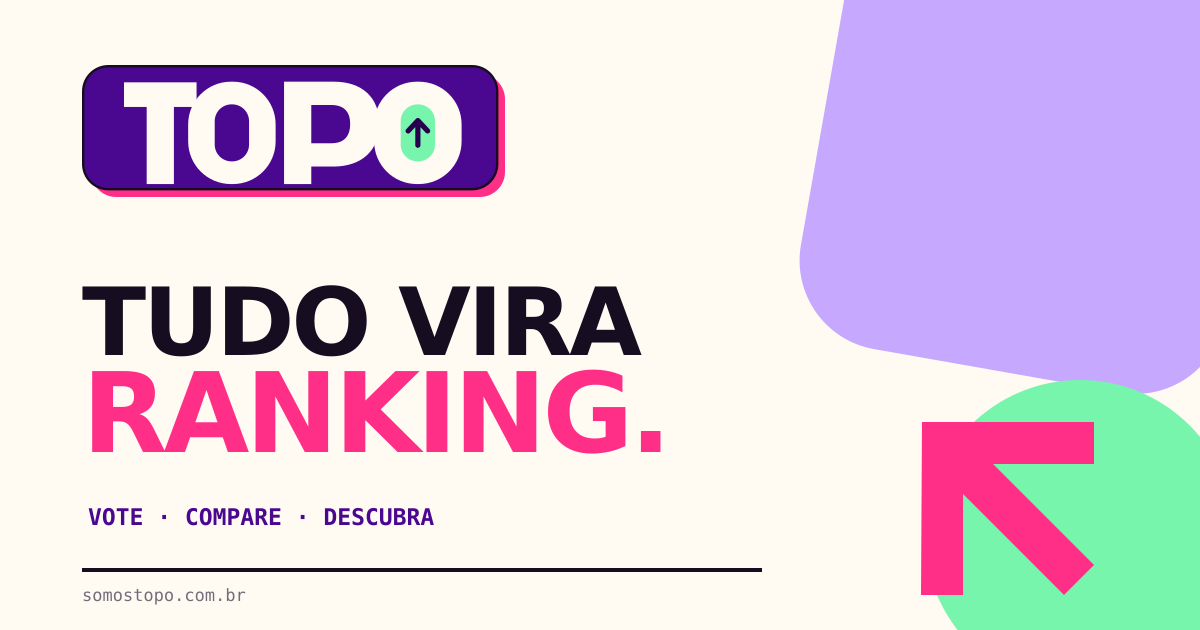
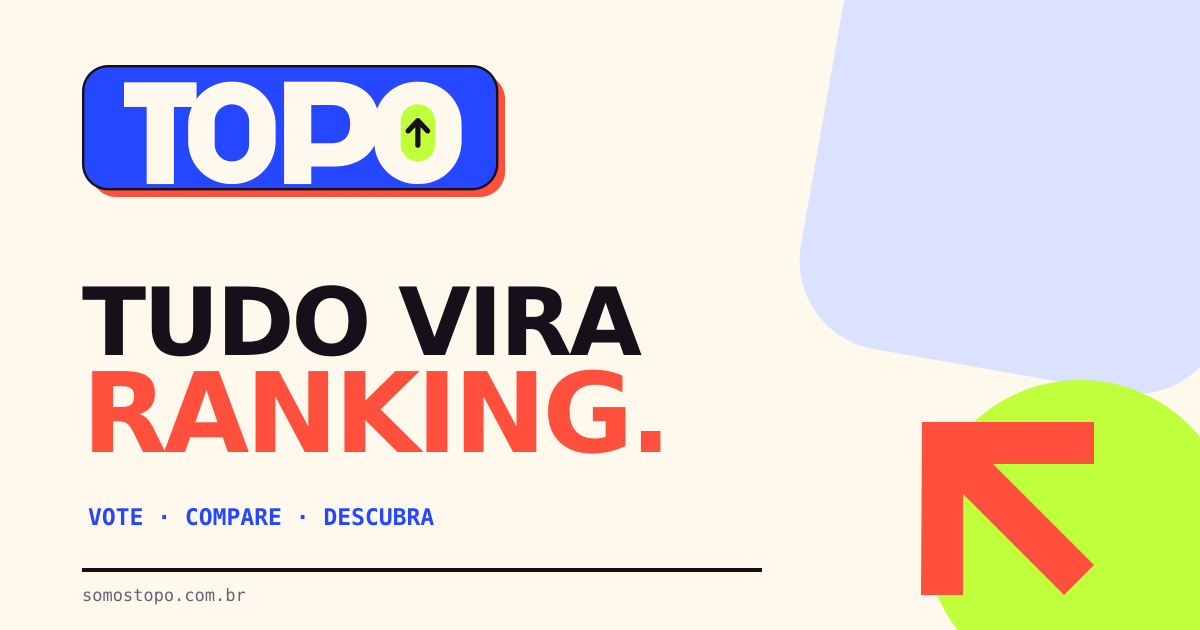
Apply electric blue coral and lime palette

diff --git a/pop-electric.css b/pop-electric.css
@@ -1,20 +1,20 @@
 :root {
-  --cream: #fffaf2;
+  --cream: #fff8ec;
   --paper: #ffffff;
-  --ink: #160d20;
-  --muted: #746c7a;
-  --line: #21152b;
-  --violet: #4a0790;
-  --violet-dark: #26004f;
-  --pink: #ff2f87;
-  --mint: #78f5ad;
-  --lilac: #c6a8ff;
-  --accent: #4a0790;
-  --bg: #fffaf2;
-  --up: #159a50;
-  --upbg: #e6f8ec;
-  --down: #df3445;
-  --downbg: #fff0f1;
+  --ink: #151019;
+  --muted: #68616f;
+  --line: #151019;
+  --violet: #2447ff;
+  --violet-dark: #151019;
+  --pink: #ff4f3d;
+  --mint: #bfff3c;
+  --lilac: #dbe2ff;
+  --accent: #2447ff;
+  --bg: #fff8ec;
+  --up: #3b7a16;
+  --upbg: #efffd8;
+  --down: #b83129;
+  --downbg: #ffe8e4;
 }
 
 html {
@@ -88,7 +88,7 @@ body.legalShell {
 
 /* Header and global navigation */
 .popElectric .top {
-  background: rgba(255, 250, 242, 0.96);
+  background: rgba(255, 248, 236, 0.96);
   border-bottom: 2px solid var(--ink);
   box-shadow: none;
   backdrop-filter: blur(16px);
@@ -193,15 +193,15 @@ body.legalShell {
 }
 
 .popElectric .siteSearch input::placeholder {
-  color: #776c7b;
+  color: #68616f;
 }
 
 .popElectric .siteSearch kbd {
   display: inline-flex;
-  border: 1px solid #d6c8df;
+  border: 1px solid #cbd3ef;
   border-radius: 6px;
-  background: #f1e8f6;
-  color: #6d5c74;
+  background: #eef1ff;
+  color: #5d5864;
   padding: 4px 7px;
   font: 700 11px/1 ui-monospace, monospace;
 }
@@ -222,7 +222,7 @@ body.legalShell {
   border: 2px solid var(--ink);
   border-radius: 10px;
   background: var(--pink);
-  color: #fff;
+  color: var(--ink);
   padding: 9px 17px;
 }
 
@@ -265,6 +265,7 @@ body.legalShell {
   height: 18px;
   border-color: var(--cream);
   background: var(--pink);
+  color: var(--ink);
   font-size: 10px;
 }
 
@@ -297,7 +298,7 @@ body.legalShell {
 }
 
 .popElectric .notificationItem.unread {
-  background: #f5efff;
+  background: #eef1ff;
 }
 
 .popElectric .notificationItem.unread::after {
@@ -315,7 +316,7 @@ body.legalShell {
 }
 
 .popElectric .experienceWrap {
-  border-top: 1px solid rgba(33, 21, 43, 0.2);
+  border-top: 1px solid rgba(21, 16, 25, 0.2);
   background: #fff;
 }
 
@@ -369,7 +370,7 @@ body.legalShell {
 
 .popElectric .groupsWrap,
 .popElectric.homePage .groupsWrap {
-  border-top: 1px solid rgba(33, 21, 43, 0.22);
+  border-top: 1px solid rgba(21, 16, 25, 0.22);
   border-bottom: 0;
   background: var(--cream);
 }
@@ -557,6 +558,7 @@ body.legalShell {
 
 .popElectric .portalTrendingLabel {
   background: var(--pink);
+  color: var(--ink);
   font-size: 12px;
 }
 
@@ -570,8 +572,8 @@ body.legalShell {
 .popElectric .categoryRail {
   grid-template-columns: 170px minmax(0, 1fr);
   border: 0;
-  border-top: 1px solid rgba(33, 21, 43, 0.4);
-  border-bottom: 1px solid rgba(33, 21, 43, 0.4);
+  border-top: 1px solid rgba(21, 16, 25, 0.4);
+  border-bottom: 1px solid rgba(21, 16, 25, 0.4);
   background: transparent;
   padding: 17px 0;
   margin: 28px 0;
@@ -727,7 +729,7 @@ body.legalShell {
   margin: 76px calc(50% - 50vw);
   padding: 45px max(24px, calc((100vw - 1240px) / 2));
   background: var(--violet);
-  color: #fffaf2;
+  color: #fff8ec;
 }
 
 .popLocalCallout .popEyebrow {
@@ -736,13 +738,13 @@ body.legalShell {
 
 .popLocalCallout h2 {
   margin: 5px 0 6px;
-  color: #fffaf2;
+  color: #fff8ec;
   font-size: clamp(48px, 5vw, 72px);
   line-height: 0.9;
 }
 
 .popLocalCallout h2 em {
-  color: var(--pink);
+  color: var(--mint);
   font-style: normal;
 }
 
@@ -755,7 +757,7 @@ body.legalShell {
   display: flex;
   align-items: center;
   gap: 10px;
-  border: 2px solid #fffaf2;
+  border: 2px solid #fff8ec;
   border-radius: 10px;
   padding: 14px 17px;
   font: 800 13px/1 ui-monospace, monospace;
@@ -933,7 +935,7 @@ body.legalShell {
 .popElectric.localMode .categoryLandingHead,
 .popElectric .localCatalogHead {
   background: var(--violet);
-  color: #fffaf2;
+  color: #fff8ec;
   box-shadow: 8px 8px 0 var(--pink);
 }
 
@@ -944,11 +946,11 @@ body.legalShell {
 }
 
 .popElectric.localMode .categoryLandingCount {
-  border-color: #fffaf2;
+  border-color: #fff8ec;
 }
 
 .popElectric.localMode .categoryLandingCount strong {
-  color: var(--pink);
+  color: var(--mint);
 }
 
 .popElectric .categoryListBar {
@@ -968,7 +970,7 @@ body.legalShell {
 .popElectric .categorySorts button.active {
   border-color: var(--ink);
   background: var(--pink);
-  color: #fff;
+  color: var(--ink);
 }
 
 .popElectric .categoryLoadMore button,
@@ -978,7 +980,7 @@ body.legalShell {
   border: 2px solid var(--ink);
   border-radius: 9px;
   background: var(--pink);
-  color: #fff;
+  color: var(--ink);
   padding: 12px 17px;
   font-size: 12px;
   font-weight: 900;
@@ -1107,7 +1109,7 @@ body.legalShell {
 
 .popElectric .option {
   min-height: 74px;
-  border-bottom: 1px solid rgba(33, 21, 43, 0.25);
+  border-bottom: 1px solid rgba(21, 16, 25, 0.25);
   padding: 12px 0;
 }
 
@@ -1163,7 +1165,7 @@ body.legalShell {
 
 .popElectric .doubleVoteAction.active {
   background: var(--pink);
-  color: #fff;
+  color: var(--ink);
 }
 
 .popElectric .allItemsExplorer {
@@ -1234,11 +1236,11 @@ body.legalShell {
   border: 2px solid var(--ink);
   border-radius: 20px;
   background: var(--violet);
-  color: #fffaf2;
+  color: #fff8ec;
 }
 
 .popElectric .rankingContinuationHead h2 {
-  color: #fffaf2;
+  color: #fff8ec;
 }
 
 .popElectric .rankingFlowButton {
@@ -1248,7 +1250,7 @@ body.legalShell {
 
 .popElectric .rankingFlowButton.primary {
   background: var(--pink);
-  color: #fff;
+  color: var(--ink);
 }
 
 /* Comments and suggestions */
@@ -1288,7 +1290,7 @@ body.legalShell {
   border: 2px solid var(--ink);
   border-radius: 9px;
   background: var(--pink);
-  color: #fff;
+  color: var(--ink);
   font-size: 12px;
 }
 
@@ -1332,6 +1334,7 @@ body.legalShell {
   border: 2px solid var(--ink);
   border-radius: 9px;
   background: var(--pink);
+  color: var(--ink);
   font-size: 13px;
 }
 
@@ -1346,13 +1349,13 @@ body.legalShell {
   border: 2px solid var(--ink);
   border-radius: 22px;
   background: var(--violet);
-  color: #fffaf2;
+  color: #fff8ec;
   box-shadow: 9px 9px 0 var(--pink);
 }
 
 .popElectric .profileHeroCopy .profileName,
 .popElectric .moderationHero h1 {
-  color: #fffaf2;
+  color: #fff8ec;
   font-size: clamp(48px, 6vw, 72px);
 }
 
@@ -1369,7 +1372,7 @@ body.legalShell {
 }
 
 .popElectric .profileProgressText strong {
-  color: #fffaf2;
+  color: #fff8ec;
 }
 
 .popElectric .profileIdentityPanel {
@@ -1405,12 +1408,12 @@ body.legalShell {
   min-height: 76px;
   align-content: center;
   padding: 12px;
-  border: 1px solid rgba(255, 250, 242, 0.55);
+  border: 1px solid rgba(255, 248, 236, 0.55);
 }
 
 .popElectric .profileMetrics strong,
 .popElectric .profileMetrics small {
-  color: #fffaf2;
+  color: #fff8ec;
 }
 
 .popElectric .profileMetrics strong {
@@ -1481,7 +1484,7 @@ body.legalShell {
 .popElectric .profilePhotoActions button:first-of-type,
 .popElectric .moderationActions .approve {
   background: var(--pink);
-  color: #fff;
+  color: var(--ink);
 }
 
 .popElectric .moderationCounts span {
@@ -1489,9 +1492,9 @@ body.legalShell {
   align-items: center;
   justify-content: center;
   gap: 5px;
-  border: 1px solid #fffaf2;
+  border: 1px solid #fff8ec;
   background: rgba(255, 255, 255, 0.09);
-  color: #fffaf2;
+  color: #fff8ec;
 }
 
 .popElectric .moderationCounts strong {
@@ -1511,7 +1514,7 @@ body.legalShell {
 
 /* Modal, toast and footer */
 .popElectric .modalLayer {
-  background: rgba(22, 13, 32, 0.68);
+  background: rgba(21, 16, 25, 0.7);
 }
 
 .popElectric .modalCard {
@@ -1532,6 +1535,7 @@ body.legalShell {
 .popElectric .modalActions .main {
   border-color: var(--ink);
   background: var(--pink);
+  color: var(--ink);
 }
 
 .popElectric .toast {
@@ -1547,7 +1551,7 @@ body.legalShell {
 .legalShell .siteFooter {
   border-top: 3px solid var(--ink);
   background: var(--violet-dark);
-  color: #fffaf2;
+  color: #fff8ec;
 }
 
 .popElectric .siteFooterGrid,
@@ -1580,7 +1584,7 @@ body.legalShell {
 .legalShell .siteFooter a,
 .popElectric .siteFooterBottom,
 .legalShell .siteFooterBottom {
-  color: #fffaf2;
+  color: #fff8ec;
   font-size: 12px;
 }
 

diff --git a/index.html b/index.html
@@ -23,10 +23,10 @@
 <meta name="twitter:description" content="Vote, compare e descubra os rankings que estão movimentando o TOPO.">
 <meta name="twitter:image" content="https://somostopo.com.br/og-topo.png">
 <!-- SEO_END -->
-<meta name="theme-color" content="#4a0790">
+<meta name="theme-color" content="#2447ff">
 <link rel="icon" href="/topo-mark.svg" type="image/svg+xml">
 <link rel="stylesheet" href="/style.css?v=20260824-8">
-<link rel="stylesheet" href="/pop-electric.css?v=20260824-9">
+<link rel="stylesheet" href="/pop-electric.css?v=20260825-10">
 </head>
 <body class="popElectric">
 <div class="top"><div class="wrap"><header><div class="brandBlock"><a class="logo" href="/" aria-label="TOPO — ir para a home"><img src="/logo-topo.svg" alt="TOPO" width="184" height="60"></a><span class="brandSlogan" aria-label="Tudo vira ranking."><span>Tudo</span><span>vira</span><span>ranking.</span></span><div class="sitePulse" id="sitePulse" aria-label="Números da comunidade"></div></div><form class="siteSearch" id="siteSearchForm" action="/" method="get" role="search"><button class="siteSearchSubmit" type="submit" aria-label="Buscar"><svg aria-hidden="true" viewBox="0 0 24 24"><circle cx="11" cy="11" r="6.5"></circle><path d="m16 16 4 4"></path></svg></button><input id="rankingSearch" name="busca" type="search" autocomplete="off" placeholder="Buscar rankings" aria-label="Buscar rankings"><kbd aria-hidden="true">⌘ K</kbd></form><div class="account" id="account"><span class="now">vote · veja · continue</span></div></header></div><div class="experienceWrap"><div class="wrap experienceInner"><nav class="experienceSwitch" aria-label="Escolher área do TOPO"><a class="experienceLink" data-experience="topo" href="/"><img src="/topo-mark.svg" alt="" aria-hidden="true">TOPO</a><a class="experienceLink local" data-experience="local" href="/local"><span class="localMark" aria-hidden="true"></span>TOPO LOCAL</a></nav><label class="cityPicker" id="cityPicker" hidden><svg aria-hidden="true" viewBox="0 0 24 24"><path d="M12 21s6-5.1 6-11a6 6 0 1 0-12 0c0 5.9 6 11 6 11Z"></path><circle cx="12" cy="10" r="2"></circle></svg><span class="srOnly">Cidade do TOPO LOCAL</span><select id="citySelect" aria-label="Escolher cidade do TOPO LOCAL"></select></label></div></div><div class="groupsWrap"><div class="wrap"><nav class="groups" id="groups" aria-label="Categorias de rankings"></nav></div></div></div>

diff --git a/institutional.js b/institutional.js
@@ -496,10 +496,10 @@ function renderPage(slug, page) {
 <meta property="og:locale" content="pt_BR"><meta property="og:type" content="website"><meta property="og:site_name" content="TOPO">
 <meta property="og:title" content="${escapeHtml(title)}"><meta property="og:description" content="${escapeHtml(page.description)}"><meta property="og:url" content="${escapeHtml(canonical)}"><meta property="og:image" content="${BASE_URL}/og-topo.png">
 <meta name="twitter:card" content="summary_large_image"><meta name="twitter:title" content="${escapeHtml(title)}"><meta name="twitter:description" content="${escapeHtml(page.description)}"><meta name="twitter:image" content="${BASE_URL}/og-topo.png">
-<meta name="theme-color" content="#4a0790">
+<meta name="theme-color" content="#2447ff">
 <link rel="icon" href="/topo-mark.svg" type="image/svg+xml">
 <link rel="stylesheet" href="/style.css?v=20260824-8">
-<link rel="stylesheet" href="/pop-electric.css?v=20260824-9">
+<link rel="stylesheet" href="/pop-electric.css?v=20260825-10">
 </head>
 <body class="legalShell popElectric">
 <header class="legalTop"><div class="wrap"><a class="logo" href="/" aria-label="TOPO — ir para a home"><img src="/logo-topo.svg" alt="TOPO" width="184" height="60"></a><a class="legalBack" href="/">← Voltar aos rankings</a></div></header>
